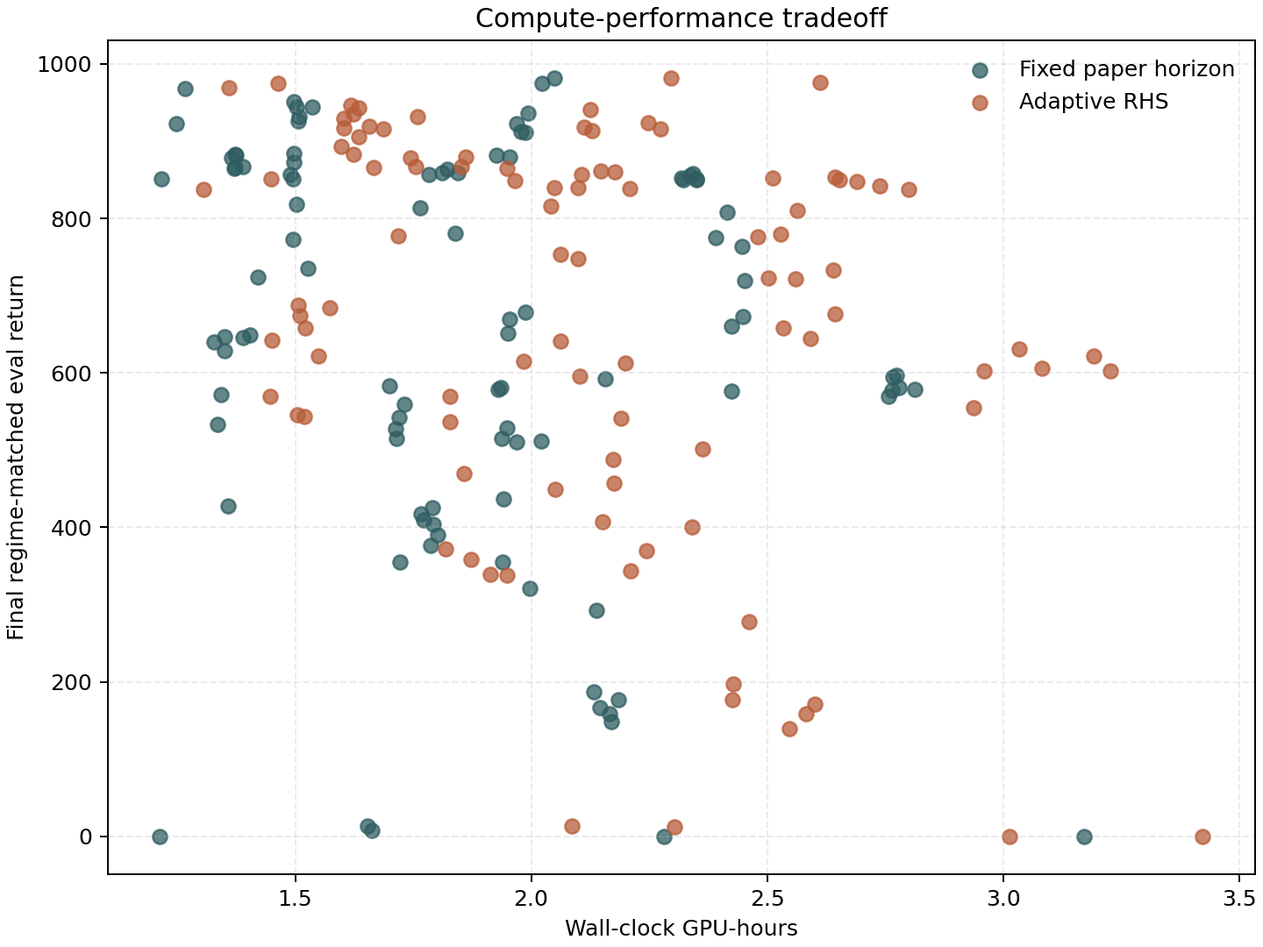
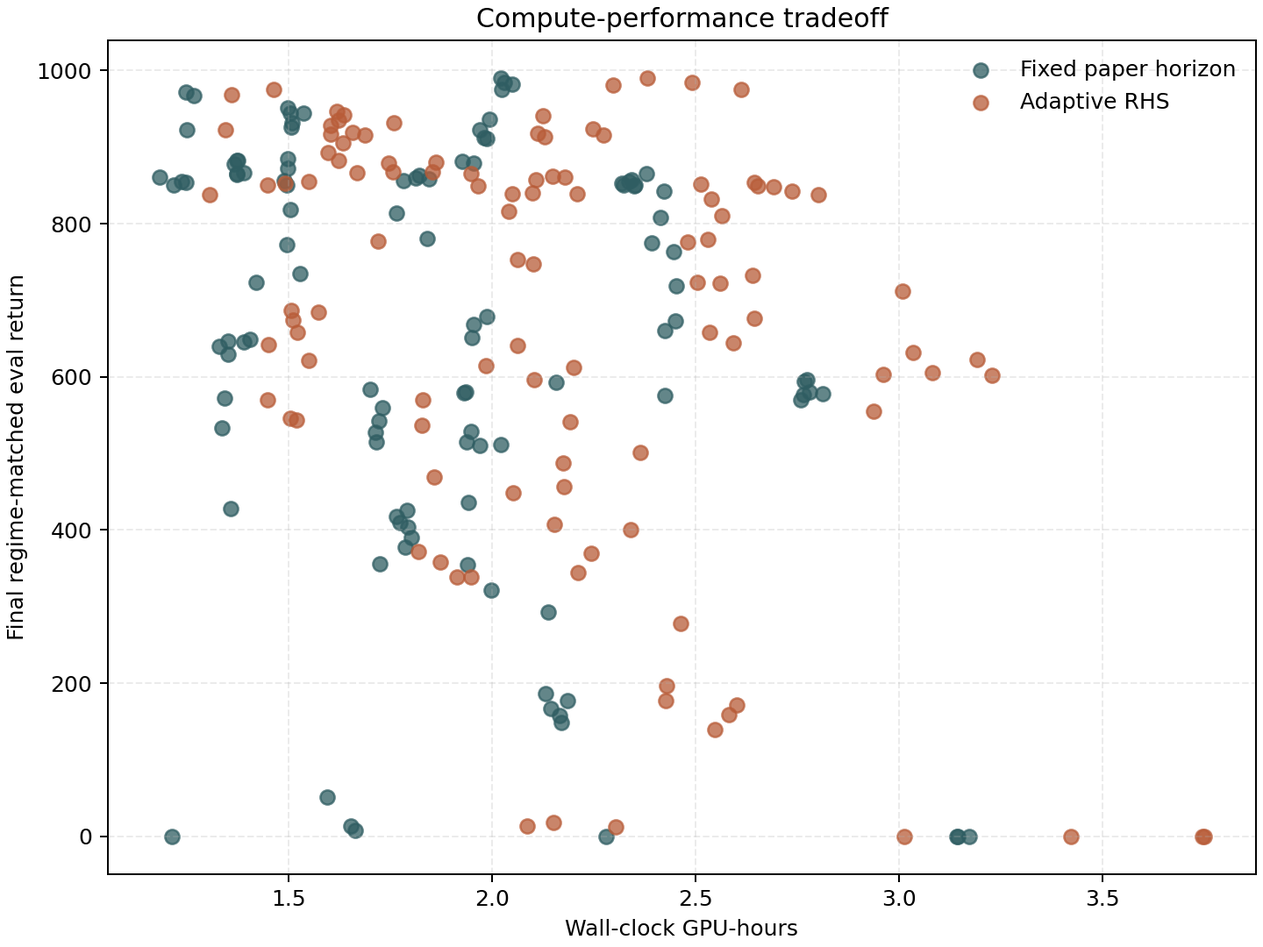
Update CoRL compact v3 result artifacts

diff --git a/runs/results/corl_compact_v3/tables/rhs_percent_delta_by_seed.tex b/runs/results/corl_compact_v3/tables/rhs_percent_delta_by_seed.tex
@@ -38,10 +38,14 @@ cheetah-run & clean & 23 & 856.693 & 915.926 & 6.91413 & True & /home/goncalo/gi
 cheetah-run & clean & 31 & 932.158 & 934.833 & 0.287 & True & /home/goncalo/git/horizonsearch/tdmpc2-jax-codex/outputs/corl\_pub\_500k\_v3/cheetah-run/clean/paper\_horizon/s31 & /home/goncalo/git/horizonsearch/tdmpc2-jax-codex/outputs/corl\_pub\_500k\_v3/cheetah-run/clean/adaptive\_rhs/s31 \\
 cheetah-run & clean & 42 & 944.059 & 932.274 & -1.24828 & False & /home/goncalo/git/horizonsearch/tdmpc2-jax-codex/outputs/corl\_pub\_500k\_v3/cheetah-run/clean/paper\_horizon/s42 & /home/goncalo/git/horizonsearch/tdmpc2-jax-codex/outputs/corl\_pub\_500k\_v3/cheetah-run/clean/adaptive\_rhs/s42 \\
 cheetah-run & clean & 7 & 943.961 & 942.65 & -0.138848 & False & /home/goncalo/git/horizonsearch/tdmpc2-jax-codex/outputs/corl\_pub\_500k\_v2/cheetah-run/clean/paper\_horizon/s7 & /home/goncalo/git/horizonsearch/tdmpc2-jax-codex/outputs/corl\_pub\_500k\_v2/cheetah-run/clean/adaptive\_rhs/s7 \\
+cup-catch & chaos & 15 & 842.1 & 831.9 & -1.21125 & False & /home/goncalo/git/horizonsearch/tdmpc2-jax-codex/outputs/corl\_pub\_500k\_v3/cup-catch/chaos/paper\_horizon/s15 & /home/goncalo/git/horizonsearch/tdmpc2-jax-codex/outputs/corl\_pub\_500k\_v3/cup-catch/chaos/adaptive\_rhs/s15 \\
 cup-catch & chaos & 23 & 763.3 & 723.25 & -5.24695 & False & /home/goncalo/git/horizonsearch/tdmpc2-jax-codex/outputs/corl\_pub\_500k\_v3/cup-catch/chaos/paper\_horizon/s23 & /home/goncalo/git/horizonsearch/tdmpc2-jax-codex/outputs/corl\_pub\_500k\_v3/cup-catch/chaos/adaptive\_rhs/s23 \\
 cup-catch & chaos & 31 & 774.85 & 779.1 & 0.548493 & True & /home/goncalo/git/horizonsearch/tdmpc2-jax-codex/outputs/corl\_pub\_500k\_v3/cup-catch/chaos/paper\_horizon/s31 & /home/goncalo/git/horizonsearch/tdmpc2-jax-codex/outputs/corl\_pub\_500k\_v3/cup-catch/chaos/adaptive\_rhs/s31 \\
+cup-catch & chaos & 42 & 865 & 711.6 & -17.7341 & False & /home/goncalo/git/horizonsearch/tdmpc2-jax-codex/outputs/corl\_pub\_500k\_v3/cup-catch/chaos/paper\_horizon/s42 & /home/goncalo/git/horizonsearch/tdmpc2-jax-codex/outputs/corl\_pub\_500k\_v3/cup-catch/chaos/adaptive\_rhs/s42 \\
+cup-catch & clean & 15 & 984.75 & 984.55 & -0.020311 & False & /home/goncalo/git/horizonsearch/tdmpc2-jax-codex/outputs/corl\_pub\_500k\_v3/cup-catch/clean/paper\_horizon/s15 & /home/goncalo/git/horizonsearch/tdmpc2-jax-codex/outputs/corl\_pub\_500k\_v3/cup-catch/clean/adaptive\_rhs/s15 \\
 cup-catch & clean & 23 & 981.95 & 981.2 & -0.0763786 & False & /home/goncalo/git/horizonsearch/tdmpc2-jax-codex/outputs/corl\_pub\_500k\_v3/cup-catch/clean/paper\_horizon/s23 & /home/goncalo/git/horizonsearch/tdmpc2-jax-codex/outputs/corl\_pub\_500k\_v3/cup-catch/clean/adaptive\_rhs/s23 \\
 cup-catch & clean & 31 & 975.35 & 975.75 & 0.0410134 & True & /home/goncalo/git/horizonsearch/tdmpc2-jax-codex/outputs/corl\_pub\_500k\_v3/cup-catch/clean/paper\_horizon/s31 & /home/goncalo/git/horizonsearch/tdmpc2-jax-codex/outputs/corl\_pub\_500k\_v3/cup-catch/clean/adaptive\_rhs/s31 \\
+cup-catch & clean & 42 & 990.5 & 989.85 & -0.0656259 & False & /home/goncalo/git/horizonsearch/tdmpc2-jax-codex/outputs/corl\_pub\_500k\_v3/cup-catch/clean/paper\_horizon/s42 & /home/goncalo/git/horizonsearch/tdmpc2-jax-codex/outputs/corl\_pub\_500k\_v3/cup-catch/clean/adaptive\_rhs/s42 \\
 finger-turn\_hard & chaos & 1 & 651 & 448.7 & -31.0753 & False & /home/goncalo/git/horizonsearch/tdmpc2-jax-codex/outputs/corl\_pub\_500k\_v2/finger-turn\_hard/chaos/paper\_horizon/s1 & /home/goncalo/git/horizonsearch/tdmpc2-jax-codex/outputs/corl\_pub\_500k\_v2/finger-turn\_hard/chaos/adaptive\_rhs/s1 \\
 finger-turn\_hard & chaos & 15 & 510.1 & 753.45 & 47.7063 & True & /home/goncalo/git/horizonsearch/tdmpc2-jax-codex/outputs/corl\_pub\_500k\_v2/finger-turn\_hard/chaos/paper\_horizon/s15 & /home/goncalo/git/horizonsearch/tdmpc2-jax-codex/outputs/corl\_pub\_500k\_v2/finger-turn\_hard/chaos/adaptive\_rhs/s15 \\
 finger-turn\_hard & chaos & 23 & 669 & 839.45 & 25.4783 & True & /home/goncalo/git/horizonsearch/tdmpc2-jax-codex/outputs/corl\_pub\_500k\_v3/finger-turn\_hard/chaos/paper\_horizon/s23 & /home/goncalo/git/horizonsearch/tdmpc2-jax-codex/outputs/corl\_pub\_500k\_v3/finger-turn\_hard/chaos/adaptive\_rhs/s23 \\
@@ -71,7 +75,10 @@ hopper-hop & clean & 42 & 355.446 & 536.892 & 51.0476 & True & /home/goncalo/git
 hopper-hop & clean & 7 & 514.885 & 469.663 & -8.78303 & False & /home/goncalo/git/horizonsearch/tdmpc2-jax-codex/outputs/corl\_pub\_500k\_v2/hopper-hop/clean/paper\_horizon/s7 & /home/goncalo/git/horizonsearch/tdmpc2-jax-codex/outputs/corl\_pub\_500k\_v2/hopper-hop/clean/adaptive\_rhs/s7 \\
 pendulum-swingup & chaos & 23 & 12.95 & 12.2 & -5.79151 & False & /home/goncalo/git/horizonsearch/tdmpc2-jax-codex/outputs/corl\_pub\_500k\_v3/pendulum-swingup/chaos/paper\_horizon/s23 & /home/goncalo/git/horizonsearch/tdmpc2-jax-codex/outputs/corl\_pub\_500k\_v3/pendulum-swingup/chaos/adaptive\_rhs/s23 \\
 pendulum-swingup & chaos & 31 & 8.1 & 13.7 & 69.1358 & True & /home/goncalo/git/horizonsearch/tdmpc2-jax-codex/outputs/corl\_pub\_500k\_v3/pendulum-swingup/chaos/paper\_horizon/s31 & /home/goncalo/git/horizonsearch/tdmpc2-jax-codex/outputs/corl\_pub\_500k\_v3/pendulum-swingup/chaos/adaptive\_rhs/s31 \\
+pendulum-swingup & chaos & 42 & 50.7 & 18.35 & -63.8067 & False & /home/goncalo/git/horizonsearch/tdmpc2-jax-codex/outputs/corl\_pub\_500k\_v3/pendulum-swingup/chaos/paper\_horizon/s42 & /home/goncalo/git/horizonsearch/tdmpc2-jax-codex/outputs/corl\_pub\_500k\_v3/pendulum-swingup/chaos/adaptive\_rhs/s42 \\
+pendulum-swingup & clean & 15 & 855.15 & 854.9 & -0.0292346 & False & /home/goncalo/git/horizonsearch/tdmpc2-jax-codex/outputs/corl\_pub\_500k\_v3/pendulum-swingup/clean/paper\_horizon/s15 & /home/goncalo/git/horizonsearch/tdmpc2-jax-codex/outputs/corl\_pub\_500k\_v3/pendulum-swingup/clean/adaptive\_rhs/s15 \\
 pendulum-swingup & clean & 23 & 850.95 & 850.65 & -0.0352533 & False & /home/goncalo/git/horizonsearch/tdmpc2-jax-codex/outputs/corl\_pub\_500k\_v3/pendulum-swingup/clean/paper\_horizon/s23 & /home/goncalo/git/horizonsearch/tdmpc2-jax-codex/outputs/corl\_pub\_500k\_v3/pendulum-swingup/clean/adaptive\_rhs/s23 \\
+pendulum-swingup & clean & 42 & 860.65 & 852.3 & -0.970201 & False & /home/goncalo/git/horizonsearch/tdmpc2-jax-codex/outputs/corl\_pub\_500k\_v3/pendulum-swingup/clean/paper\_horizon/s42 & /home/goncalo/git/horizonsearch/tdmpc2-jax-codex/outputs/corl\_pub\_500k\_v3/pendulum-swingup/clean/adaptive\_rhs/s42 \\
 quadruped-run & chaos & 1 & 660.833 & 732.885 & 10.9033 & True & /home/goncalo/git/horizonsearch/tdmpc2-jax-codex/outputs/corl\_pub\_500k\_v2/quadruped-run/chaos/paper\_horizon/s1 & /home/goncalo/git/horizonsearch/tdmpc2-jax-codex/outputs/corl\_pub\_500k\_v2/quadruped-run/chaos/adaptive\_rhs/s1 \\
 quadruped-run & chaos & 15 & 576.135 & 810.007 & 40.5932 & True & /home/goncalo/git/horizonsearch/tdmpc2-jax-codex/outputs/corl\_pub\_500k\_v2/quadruped-run/chaos/paper\_horizon/s15 & /home/goncalo/git/horizonsearch/tdmpc2-jax-codex/outputs/corl\_pub\_500k\_v2/quadruped-run/chaos/adaptive\_rhs/s15 \\
 quadruped-run & chaos & 23 & 592.633 & 658.182 & 11.0606 & True & /home/goncalo/git/horizonsearch/tdmpc2-jax-codex/outputs/corl\_pub\_500k\_v3/quadruped-run/chaos/paper\_horizon/s23 & /home/goncalo/git/horizonsearch/tdmpc2-jax-codex/outputs/corl\_pub\_500k\_v3/quadruped-run/chaos/adaptive\_rhs/s23 \\
@@ -85,8 +92,10 @@ quadruped-run & clean & 31 & 922.892 & 918.438 & -0.482618 & False & /home/gonca
 quadruped-run & clean & 42 & 936.566 & 916.308 & -2.16306 & False & /home/goncalo/git/horizonsearch/tdmpc2-jax-codex/outputs/corl\_pub\_500k\_v3/quadruped-run/clean/paper\_horizon/s42 & /home/goncalo/git/horizonsearch/tdmpc2-jax-codex/outputs/corl\_pub\_500k\_v3/quadruped-run/clean/adaptive\_rhs/s42 \\
 quadruped-run & clean & 7 & 879.293 & 839.896 & -4.48062 & False & /home/goncalo/git/horizonsearch/tdmpc2-jax-codex/outputs/corl\_pub\_500k\_v2/quadruped-run/clean/paper\_horizon/s7 & /home/goncalo/git/horizonsearch/tdmpc2-jax-codex/outputs/corl\_pub\_500k\_v2/quadruped-run/clean/adaptive\_rhs/s7 \\
 reacher-hard & chaos & 23 & 0.15 & 0.1 & -33.3333 & False & /home/goncalo/git/horizonsearch/tdmpc2-jax-codex/outputs/corl\_pub\_500k\_v3/reacher-hard/chaos/paper\_horizon/s23 & /home/goncalo/git/horizonsearch/tdmpc2-jax-codex/outputs/corl\_pub\_500k\_v3/reacher-hard/chaos/adaptive\_rhs/s23 \\
+reacher-hard & chaos & 31 & 0.1 & 0.1 & 0 & False & /home/goncalo/git/horizonsearch/tdmpc2-jax-codex/outputs/corl\_pub\_500k\_v3/reacher-hard/chaos/paper\_horizon/s31 & /home/goncalo/git/horizonsearch/tdmpc2-jax-codex/outputs/corl\_pub\_500k\_v3/reacher-hard/chaos/adaptive\_rhs/s31 \\
 reacher-hard & clean & 23 & 967.7 & 968.75 & 0.108503 & True & /home/goncalo/git/horizonsearch/tdmpc2-jax-codex/outputs/corl\_pub\_500k\_v3/reacher-hard/clean/paper\_horizon/s23 & /home/goncalo/git/horizonsearch/tdmpc2-jax-codex/outputs/corl\_pub\_500k\_v3/reacher-hard/clean/adaptive\_rhs/s23 \\
 reacher-hard & clean & 31 & 922.45 & 974.8 & 5.6751 & True & /home/goncalo/git/horizonsearch/tdmpc2-jax-codex/outputs/corl\_pub\_500k\_v3/reacher-hard/clean/paper\_horizon/s31 & /home/goncalo/git/horizonsearch/tdmpc2-jax-codex/outputs/corl\_pub\_500k\_v3/reacher-hard/clean/adaptive\_rhs/s31 \\
+reacher-hard & clean & 42 & 972.35 & 922.7 & -5.10618 & False & /home/goncalo/git/horizonsearch/tdmpc2-jax-codex/outputs/corl\_pub\_500k\_v3/reacher-hard/clean/paper\_horizon/s42 & /home/goncalo/git/horizonsearch/tdmpc2-jax-codex/outputs/corl\_pub\_500k\_v3/reacher-hard/clean/adaptive\_rhs/s42 \\
 walker-run & chaos & 1 & 596.752 & 605.954 & 1.54205 & True & /home/goncalo/git/horizonsearch/tdmpc2-jax-codex/outputs/corl\_pub\_500k\_v3/walker-run/chaos/paper\_horizon/s1 & /home/goncalo/git/horizonsearch/tdmpc2-jax-codex/outputs/corl\_pub\_500k\_v3/walker-run/chaos/adaptive\_rhs/s1 \\
 walker-run & chaos & 15 & 594.096 & 602.725 & 1.45247 & True & /home/goncalo/git/horizonsearch/tdmpc2-jax-codex/outputs/corl\_pub\_500k\_v3/walker-run/chaos/paper\_horizon/s15 & /home/goncalo/git/horizonsearch/tdmpc2-jax-codex/outputs/corl\_pub\_500k\_v3/walker-run/chaos/adaptive\_rhs/s15 \\
 walker-run & chaos & 23 & 577.065 & 622.352 & 7.84768 & True & /home/goncalo/git/horizonsearch/tdmpc2-jax-codex/outputs/corl\_pub\_500k\_v3/walker-run/chaos/paper\_horizon/s23 & /home/goncalo/git/horizonsearch/tdmpc2-jax-codex/outputs/corl\_pub\_500k\_v3/walker-run/chaos/adaptive\_rhs/s23 \\

diff --git a/runs/results/corl_compact_v3/tables/main_final_scores.tex b/runs/results/corl_compact_v3/tables/main_final_scores.tex
@@ -205,5 +205,26 @@ pendulum-swingup & chaos & paper\_horizon & 31 & 3 & 500000 & 8.1 & 61.35 & 2311
 pendulum-swingup & chaos & adaptive\_rhs & 31 & 3 & 500000 & 13.7 & 124.2 & 2312 & 2.0869 & True & /home/goncalo/git/horizonsearch/tdmpc2-jax-codex/outputs/corl\_pub\_500k\_v3/pendulum-swingup/chaos/adaptive\_rhs/s31 \\
 reacher-hard & clean & paper\_horizon & 31 & 3 & 500000 & 922.45 & 978.9 & 2313 & 1.2489 & True & /home/goncalo/git/horizonsearch/tdmpc2-jax-codex/outputs/corl\_pub\_500k\_v3/reacher-hard/clean/paper\_horizon/s31 \\
 reacher-hard & clean & adaptive\_rhs & 31 & 3 & 500000 & 974.8 & 979.45 & 2314 & 1.4636 & True & /home/goncalo/git/horizonsearch/tdmpc2-jax-codex/outputs/corl\_pub\_500k\_v3/reacher-hard/clean/adaptive\_rhs/s31 \\
+cup-catch & clean & paper\_horizon & 42 & 3 & 500000 & 990.5 & 990.5 & 2318 & 2.0217 & True & /home/goncalo/git/horizonsearch/tdmpc2-jax-codex/outputs/corl\_pub\_500k\_v3/cup-catch/clean/paper\_horizon/s42 \\
+reacher-hard & chaos & paper\_horizon & 31 & 3 & 500000 & 0.1 & 0.45 & 2316 & 3.1433 & True & /home/goncalo/git/horizonsearch/tdmpc2-jax-codex/outputs/corl\_pub\_500k\_v3/reacher-hard/chaos/paper\_horizon/s31 \\
+reacher-hard & chaos & adaptive\_rhs & 31 & 3 & 500000 & 0.1 & 0.45 & 2317 & 3.7464 & True & /home/goncalo/git/horizonsearch/tdmpc2-jax-codex/outputs/corl\_pub\_500k\_v3/reacher-hard/chaos/adaptive\_rhs/s31 \\
+cup-catch & clean & adaptive\_rhs & 42 & 3 & 500000 & 989.85 & 989.85 & 2320 & 2.3803 & True & /home/goncalo/git/horizonsearch/tdmpc2-jax-codex/outputs/corl\_pub\_500k\_v3/cup-catch/clean/adaptive\_rhs/s42 \\
+cup-catch & chaos & paper\_horizon & 42 & 3 & 500000 & 865 & 915.3 & 2321 & 2.3800 & True & /home/goncalo/git/horizonsearch/tdmpc2-jax-codex/outputs/corl\_pub\_500k\_v3/cup-catch/chaos/paper\_horizon/s42 \\
+pendulum-swingup & clean & paper\_horizon & 42 & 3 & 500000 & 860.65 & 898.35 & 2324 & 1.1828 & True & /home/goncalo/git/horizonsearch/tdmpc2-jax-codex/outputs/corl\_pub\_500k\_v3/pendulum-swingup/clean/paper\_horizon/s42 \\
+cup-catch & chaos & adaptive\_rhs & 42 & 3 & 500000 & 711.6 & 880.55 & 2322 & 3.0092 & True & /home/goncalo/git/horizonsearch/tdmpc2-jax-codex/outputs/corl\_pub\_500k\_v3/cup-catch/chaos/adaptive\_rhs/s42 \\
+pendulum-swingup & clean & adaptive\_rhs & 42 & 3 & 500000 & 852.3 & 898.6 & 2325 & 1.4914 & True & /home/goncalo/git/horizonsearch/tdmpc2-jax-codex/outputs/corl\_pub\_500k\_v3/pendulum-swingup/clean/adaptive\_rhs/s42 \\
+pendulum-swingup & chaos & paper\_horizon & 42 & 3 & 500000 & 50.7 & 123.25 & 2326 & 1.5942 & True & /home/goncalo/git/horizonsearch/tdmpc2-jax-codex/outputs/corl\_pub\_500k\_v3/pendulum-swingup/chaos/paper\_horizon/s42 \\
+pendulum-swingup & chaos & adaptive\_rhs & 42 & 3 & 500000 & 18.35 & 87.3 & 2327 & 2.1514 & True & /home/goncalo/git/horizonsearch/tdmpc2-jax-codex/outputs/corl\_pub\_500k\_v3/pendulum-swingup/chaos/adaptive\_rhs/s42 \\
+reacher-hard & clean & paper\_horizon & 42 & 3 & 500000 & 972.35 & 972.35 & 2328 & 1.2481 & True & /home/goncalo/git/horizonsearch/tdmpc2-jax-codex/outputs/corl\_pub\_500k\_v3/reacher-hard/clean/paper\_horizon/s42 \\
+reacher-hard & clean & adaptive\_rhs & 42 & 3 & 500000 & 922.7 & 969.2 & 2330 & 1.3439 & True & /home/goncalo/git/horizonsearch/tdmpc2-jax-codex/outputs/corl\_pub\_500k\_v3/reacher-hard/clean/adaptive\_rhs/s42 \\
+reacher-hard & chaos & paper\_horizon & 42 & 3 & 500000 & 0 & 22.15 & 2331 & 3.1417 & True & /home/goncalo/git/horizonsearch/tdmpc2-jax-codex/outputs/corl\_pub\_500k\_v3/reacher-hard/chaos/paper\_horizon/s42 \\
+reacher-hard & chaos & adaptive\_rhs & 42 & 3 & 500000 & 0 & 22.15 & 2332 & 3.7500 & True & /home/goncalo/git/horizonsearch/tdmpc2-jax-codex/outputs/corl\_pub\_500k\_v3/reacher-hard/chaos/adaptive\_rhs/s42 \\
+cup-catch & clean & paper\_horizon & 15 & 3 & 500000 & 984.75 & 988.45 & 2335 & 2.0297 & True & /home/goncalo/git/horizonsearch/tdmpc2-jax-codex/outputs/corl\_pub\_500k\_v3/cup-catch/clean/paper\_horizon/s15 \\
+cup-catch & clean & adaptive\_rhs & 15 & 3 & 500000 & 984.55 & 987.95 & 2336 & 2.4914 & True & /home/goncalo/git/horizonsearch/tdmpc2-jax-codex/outputs/corl\_pub\_500k\_v3/cup-catch/clean/adaptive\_rhs/s15 \\
+cup-catch & chaos & paper\_horizon & 15 & 3 & 500000 & 842.1 & 884 & 2341 & 2.4228 & True & /home/goncalo/git/horizonsearch/tdmpc2-jax-codex/outputs/corl\_pub\_500k\_v3/cup-catch/chaos/paper\_horizon/s15 \\
+cup-catch & chaos & adaptive\_rhs & 15 & 3 & 500000 & 831.9 & 886.65 & 2342 & 2.5389 & True & /home/goncalo/git/horizonsearch/tdmpc2-jax-codex/outputs/corl\_pub\_500k\_v3/cup-catch/chaos/adaptive\_rhs/s15 \\
+pendulum-swingup & clean & paper\_horizon & 15 & 3 & 500000 & 855.15 & 864.85 & 2343 & 1.2369 & True & /home/goncalo/git/horizonsearch/tdmpc2-jax-codex/outputs/corl\_pub\_500k\_v3/pendulum-swingup/clean/paper\_horizon/s15 \\
+pendulum-swingup & clean & adaptive\_rhs & 15 & 3 & 500000 & 854.9 & 864.45 & 2344 & 1.5481 & True & /home/goncalo/git/horizonsearch/tdmpc2-jax-codex/outputs/corl\_pub\_500k\_v3/pendulum-swingup/clean/adaptive\_rhs/s15 \\
+reacher-hard & clean & paper\_horizon & 15 & 3 & 500000 & 854.3 & 974.65 & 2350 & 1.2472 & True & /home/goncalo/git/horizonsearch/tdmpc2-jax-codex/outputs/corl\_pub\_500k\_v3/reacher-hard/clean/paper\_horizon/s15 \\
 \bottomrule
 \end{tabular}

diff --git a/runs/results/corl_compact_v3/tables/rhs_percent_delta_summary.tex b/runs/results/corl_compact_v3/tables/rhs_percent_delta_summary.tex
@@ -2,19 +2,19 @@
 \toprule
 scope & n & mean\_pct\_delta\_vs\_baseline & var\_pct\_delta\_vs\_baseline & std\_pct\_delta\_vs\_baseline & rhs\_wins & rhs\_win\_rate \\
 \midrule
-all\_valid\_pairs & 97 & 4.09608 & 372.998 & 19.3131 & 58 & 0.597938 \\
-regime=chaos & 47 & 6.67585 & 575.874 & 23.9974 & 30 & 0.638298 \\
-regime=clean & 50 & 1.6711 & 177.77 & 13.333 & 28 & 0.56 \\
+all\_valid\_pairs & 106 & 2.90921 & 390.023 & 19.749 & 58 & 0.54717 \\
+regime=chaos & 51 & 4.52966 & 638.514 & 25.2688 & 30 & 0.588235 \\
+regime=clean & 55 & 1.40661 & 162.381 & 12.7429 & 28 & 0.509091 \\
 env=acrobot-swingup & 12 & 5.63237 & 324.245 & 18.0068 & 9 & 0.75 \\
 env=cartpole-swingup & 12 & -0.104741 & 1.42622 & 1.19425 & 7 & 0.583333 \\
 env=cheetah-run & 12 & 5.17002 & 279.261 & 16.7111 & 9 & 0.75 \\
-env=cup-catch & 4 & -1.18346 & 7.4122 & 2.72254 & 2 & 0.5 \\
+env=cup-catch & 8 & -2.97064 & 39.0302 & 6.24742 & 2 & 0.25 \\
 env=finger-turn\_hard & 12 & 14.8716 & 555.625 & 23.5717 & 9 & 0.75 \\
 env=fish-swim & 3 & -7.05135 & 75.1301 & 8.66776 & 1 & 0.333333 \\
 env=hopper-hop & 12 & 1.67943 & 1149.05 & 33.8976 & 5 & 0.416667 \\
-env=pendulum-swingup & 3 & 21.103 & 1738.64 & 41.6971 & 1 & 0.333333 \\
+env=pendulum-swingup & 6 & -0.249518 & 1777.03 & 42.1549 & 1 & 0.166667 \\
 env=quadruped-run & 12 & 3.5862 & 182.398 & 13.5055 & 7 & 0.583333 \\
-env=reacher-hard & 3 & -9.18324 & 445.167 & 21.099 & 2 & 0.666667 \\
+env=reacher-hard & 5 & -6.53118 & 239.03 & 15.4606 & 2 & 0.4 \\
 env=walker-run & 12 & 1.45245 & 15.4791 & 3.93435 & 6 & 0.5 \\
 env=acrobot-swingup,regime=chaos & 6 & 0.386395 & 217.789 & 14.7577 & 4 & 0.666667 \\
 env=acrobot-swingup,regime=clean & 6 & 10.8783 & 429.502 & 20.7244 & 5 & 0.833333 \\
@@ -22,19 +22,19 @@ env=cartpole-swingup,regime=chaos & 6 & -0.220516 & 0.656848 & 0.810461 & 3 & 0.
 env=cartpole-swingup,regime=clean & 6 & 0.0110334 & 2.44868 & 1.56482 & 4 & 0.666667 \\
 env=cheetah-run,regime=chaos & 6 & 7.92887 & 583.898 & 24.164 & 5 & 0.833333 \\
 env=cheetah-run,regime=clean & 6 & 2.41116 & 12.2086 & 3.49407 & 4 & 0.666667 \\
-env=cup-catch,regime=chaos & 2 & -2.34923 & 16.7936 & 4.098 & 1 & 0.5 \\
-env=cup-catch,regime=clean & 2 & -0.0176826 & 0.00689045 & 0.0830087 & 1 & 0.5 \\
+env=cup-catch,regime=chaos & 4 & -5.91095 & 68.0132 & 8.24701 & 1 & 0.25 \\
+env=cup-catch,regime=clean & 4 & -0.0303255 & 0.00285218 & 0.0534058 & 1 & 0.25 \\
 env=finger-turn\_hard,regime=chaos & 6 & 23.9337 & 946.095 & 30.7587 & 5 & 0.833333 \\
 env=finger-turn\_hard,regime=clean & 6 & 5.80954 & 79.1889 & 8.89881 & 4 & 0.666667 \\
 env=fish-swim,regime=clean & 3 & -7.05135 & 75.1301 & 8.66776 & 1 & 0.333333 \\
 env=hopper-hop,regime=chaos & 6 & 5.50594 & 1518.36 & 38.9661 & 2 & 0.333333 \\
 env=hopper-hop,regime=clean & 6 & -2.14707 & 974.403 & 31.2154 & 3 & 0.5 \\
-env=pendulum-swingup,regime=chaos & 2 & 31.6721 & 2807.05 & 52.9816 & 1 & 0.5 \\
-env=pendulum-swingup,regime=clean & 1 & -0.0352533 & 0 & 0 & 0 & 0 \\
+env=pendulum-swingup,regime=chaos & 3 & -0.15414 & 4442.26 & 66.6503 & 1 & 0.333333 \\
+env=pendulum-swingup,regime=clean & 3 & -0.344896 & 0.293264 & 0.541538 & 0 & 0 \\
 env=quadruped-run,regime=chaos & 6 & 7.00169 & 363.35 & 19.0618 & 4 & 0.666667 \\
 env=quadruped-run,regime=clean & 6 & 0.17072 & 9.92773 & 3.15083 & 3 & 0.5 \\
-env=reacher-hard,regime=chaos & 1 & -33.3333 & 0 & 0 & 0 & 0 \\
-env=reacher-hard,regime=clean & 2 & 2.8918 & 15.4935 & 3.93618 & 2 & 1 \\
+env=reacher-hard,regime=chaos & 2 & -16.6667 & 555.556 & 23.5702 & 0 & 0 \\
+env=reacher-hard,regime=clean & 3 & 0.225808 & 29.0693 & 5.3916 & 2 & 0.666667 \\
 env=walker-run,regime=chaos & 6 & 3.5393 & 23.0744 & 4.80359 & 5 & 0.833333 \\
 env=walker-run,regime=clean & 6 & -0.634413 & 0.527656 & 0.726399 & 1 & 0.166667 \\
 \bottomrule

diff --git a/runs/results/corl_compact_v3/tables/compute_runtime.tex b/runs/results/corl_compact_v3/tables/compute_runtime.tex
@@ -205,5 +205,26 @@ pendulum-swingup & chaos & paper\_horizon & 31 & 2311 & 1.6633 & COMPLETED & Tru
 pendulum-swingup & chaos & adaptive\_rhs & 31 & 2312 & 2.0869 & COMPLETED & True \\
 reacher-hard & clean & paper\_horizon & 31 & 2313 & 1.2489 & COMPLETED & True \\
 reacher-hard & clean & adaptive\_rhs & 31 & 2314 & 1.4636 & COMPLETED & True \\
+cup-catch & clean & paper\_horizon & 42 & 2318 & 2.0217 & COMPLETED & True \\
+reacher-hard & chaos & paper\_horizon & 31 & 2316 & 3.1433 & COMPLETED & True \\
+reacher-hard & chaos & adaptive\_rhs & 31 & 2317 & 3.7464 & COMPLETED & True \\
+cup-catch & clean & adaptive\_rhs & 42 & 2320 & 2.3803 & COMPLETED & True \\
+cup-catch & chaos & paper\_horizon & 42 & 2321 & 2.3800 & COMPLETED & True \\
+pendulum-swingup & clean & paper\_horizon & 42 & 2324 & 1.1828 & COMPLETED & True \\
+cup-catch & chaos & adaptive\_rhs & 42 & 2322 & 3.0092 & COMPLETED & True \\
+pendulum-swingup & clean & adaptive\_rhs & 42 & 2325 & 1.4914 & COMPLETED & True \\
+pendulum-swingup & chaos & paper\_horizon & 42 & 2326 & 1.5942 & COMPLETED & True \\
+pendulum-swingup & chaos & adaptive\_rhs & 42 & 2327 & 2.1514 & COMPLETED & True \\
+reacher-hard & clean & paper\_horizon & 42 & 2328 & 1.2481 & COMPLETED & True \\
+reacher-hard & clean & adaptive\_rhs & 42 & 2330 & 1.3439 & COMPLETED & True \\
+reacher-hard & chaos & paper\_horizon & 42 & 2331 & 3.1417 & COMPLETED & True \\
+reacher-hard & chaos & adaptive\_rhs & 42 & 2332 & 3.7500 & COMPLETED & True \\
+cup-catch & clean & paper\_horizon & 15 & 2335 & 2.0297 & COMPLETED & True \\
+cup-catch & clean & adaptive\_rhs & 15 & 2336 & 2.4914 & COMPLETED & True \\
+cup-catch & chaos & paper\_horizon & 15 & 2341 & 2.4228 & COMPLETED & True \\
+cup-catch & chaos & adaptive\_rhs & 15 & 2342 & 2.5389 & COMPLETED & True \\
+pendulum-swingup & clean & paper\_horizon & 15 & 2343 & 1.2369 & COMPLETED & True \\
+pendulum-swingup & clean & adaptive\_rhs & 15 & 2344 & 1.5481 & COMPLETED & True \\
+reacher-hard & clean & paper\_horizon & 15 & 2350 & 1.2472 & COMPLETED & True \\
 \bottomrule
 \end{tabular}

diff --git a/runs/results/corl_compact_v3/tables/main_auc_scores.tex b/runs/results/corl_compact_v3/tables/main_auc_scores.tex
@@ -205,5 +205,26 @@ pendulum-swingup & chaos & paper\_horizon & 31 & 24.8675 & 8.1 & 1.6633 \\
 pendulum-swingup & chaos & adaptive\_rhs & 31 & 38.1325 & 13.7 & 2.0869 \\
 reacher-hard & clean & paper\_horizon & 31 & 831.447 & 922.45 & 1.2489 \\
 reacher-hard & clean & adaptive\_rhs & 31 & 851.367 & 974.8 & 1.4636 \\
+cup-catch & clean & paper\_horizon & 42 & 887.53 & 990.5 & 2.0217 \\
+reacher-hard & chaos & paper\_horizon & 31 & 0.17 & 0.1 & 3.1433 \\
+reacher-hard & chaos & adaptive\_rhs & 31 & 0.17 & 0.1 & 3.7464 \\
+cup-catch & clean & adaptive\_rhs & 42 & 885.515 & 989.85 & 2.3803 \\
+cup-catch & chaos & paper\_horizon & 42 & 717.308 & 865 & 2.3800 \\
+pendulum-swingup & clean & paper\_horizon & 42 & 759.298 & 860.65 & 1.1828 \\
+cup-catch & chaos & adaptive\_rhs & 42 & 712.565 & 711.6 & 3.0092 \\
+pendulum-swingup & clean & adaptive\_rhs & 42 & 757.24 & 852.3 & 1.4914 \\
+pendulum-swingup & chaos & paper\_horizon & 42 & 68.7075 & 50.7 & 1.5942 \\
+pendulum-swingup & chaos & adaptive\_rhs & 42 & 24.57 & 18.35 & 2.1514 \\
+reacher-hard & clean & paper\_horizon & 42 & 860.687 & 972.35 & 1.2481 \\
+reacher-hard & clean & adaptive\_rhs & 42 & 861.293 & 922.7 & 1.3439 \\
+reacher-hard & chaos & paper\_horizon & 42 & 2.44 & 0 & 3.1417 \\
+reacher-hard & chaos & adaptive\_rhs & 42 & 2.465 & 0 & 3.7500 \\
+cup-catch & clean & paper\_horizon & 15 & 885.238 & 984.75 & 2.0297 \\
+cup-catch & clean & adaptive\_rhs & 15 & 885.11 & 984.55 & 2.4914 \\
+cup-catch & chaos & paper\_horizon & 15 & 709.83 & 842.1 & 2.4228 \\
+cup-catch & chaos & adaptive\_rhs & 15 & 738.805 & 831.9 & 2.5389 \\
+pendulum-swingup & clean & paper\_horizon & 15 & 739.977 & 855.15 & 1.2369 \\
+pendulum-swingup & clean & adaptive\_rhs & 15 & 734.737 & 854.9 & 1.5481 \\
+reacher-hard & clean & paper\_horizon & 15 & 836.49 & 854.3 & 1.2472 \\
 \bottomrule
 \end{tabular}

diff --git a/runs/results/corl_compact_v3/tables/parity_times.tex b/runs/results/corl_compact_v3/tables/parity_times.tex
@@ -101,5 +101,15 @@ cup-catch & chaos & 31 & 774.85 & 779.1 &  &  &  & 2.5292 & 2.3917 & 500000 \\
 pendulum-swingup & clean & 31 & 0 & 837.5 &  &  &  & 1.3056 & 1.2128 & 500000 \\
 pendulum-swingup & chaos & 31 & 8.1 & 13.7 &  &  &  & 2.0869 & 1.6633 & 500000 \\
 reacher-hard & clean & 31 & 922.45 & 974.8 &  &  &  & 1.4636 & 1.2489 & 500000 \\
+reacher-hard & chaos & 31 & 0.1 & 0.1 &  &  &  & 3.7464 & 3.1433 & 500000 \\
+cup-catch & clean & 42 & 990.5 & 989.85 &  &  &  & 2.3803 & 2.0217 & 500000 \\
+cup-catch & chaos & 42 & 865 & 711.6 &  &  &  & 3.0092 & 2.38 & 500000 \\
+pendulum-swingup & clean & 42 & 860.65 & 852.3 &  &  &  & 1.4914 & 1.1828 & 500000 \\
+pendulum-swingup & chaos & 42 & 50.7 & 18.35 &  &  &  & 2.1514 & 1.5942 & 500000 \\
+reacher-hard & clean & 42 & 972.35 & 922.7 &  &  &  & 1.3439 & 1.2481 & 500000 \\
+reacher-hard & chaos & 42 & 0 & 0 &  &  &  & 3.75 & 3.1417 & 500000 \\
+cup-catch & clean & 15 & 984.75 & 984.55 &  &  &  & 2.4914 & 2.0297 & 500000 \\
+cup-catch & chaos & 15 & 842.1 & 831.9 &  &  &  & 2.5389 & 2.4228 & 500000 \\
+pendulum-swingup & clean & 15 & 855.15 & 854.9 &  &  &  & 1.5481 & 1.2369 & 500000 \\
 \bottomrule
 \end{tabular}

diff --git a/runs/results/corl_compact_v3/report/corl_compact_base_report.tex b/runs/results/corl_compact_v3/report/corl_compact_base_report.tex
@@ -6,9 +6,9 @@
 
 \subsection*{Executive Summary}
 
-\noindent $\bullet$ Completed main profiles: 203/240.\\
-\noindent $\bullet$ Mean final fixed paper-horizon score: 655.079.\\
-\noindent $\bullet$ Mean final adaptive RHS score: 673.36.\\
+\noindent $\bullet$ Completed main profiles: 224/240.\\
+\noindent $\bullet$ Mean final fixed paper-horizon score: 661.853.\\
+\noindent $\bullet$ Mean final adaptive RHS score: 674.351.\\
 \noindent $\bullet$ Main claim: adaptive RHS is evaluated against the standard TD-MPC2 fixed horizon without a horizon sweep.\\
 
 \subsection*{Method}
@@ -27,7 +27,7 @@ Seeds: 1, 7, 15, 23, 31, 42. Training budget: 500000 environment steps.\\
 
 See `figures/fig1\_clean\_learning\_curves.*`, `figures/fig2\_chaos\_learning\_curves.*`, `tables/main\_final\_scores.*`, `tables/main\_auc\_scores.*`, and the NaN-excluded percent-delta summaries in `tables/rhs\_percent\_delta\_summary.*`.\\
 
-Clean completed rows: 103. Chaos completed rows: 100.\\
+Clean completed rows: 114. Chaos completed rows: 110.\\
 
 \subsection*{Robustness}
 

diff --git a/runs/results/corl_compact_v3/report/corl_compact_base_report.md b/runs/results/corl_compact_v3/report/corl_compact_base_report.md
@@ -2,9 +2,9 @@
 
 ## Executive Summary
 
-- Completed main profiles: 203/240.
-- Mean final fixed paper-horizon score: 655.079.
-- Mean final adaptive RHS score: 673.36.
+- Completed main profiles: 224/240.
+- Mean final fixed paper-horizon score: 661.853.
+- Mean final adaptive RHS score: 674.351.
 - Main claim: adaptive RHS is evaluated against the standard TD-MPC2 fixed horizon without a horizon sweep.
 
 ## Method
@@ -23,7 +23,7 @@ Seeds: 1, 7, 15, 23, 31, 42. Training budget: 500000 environment steps.
 
 See `figures/fig1_clean_learning_curves.*`, `figures/fig2_chaos_learning_curves.*`, `tables/main_final_scores.*`, `tables/main_auc_scores.*`, and the NaN-excluded percent-delta summaries in `tables/rhs_percent_delta_summary.*`.
 
-Clean completed rows: 103. Chaos completed rows: 100.
+Clean completed rows: 114. Chaos completed rows: 110.
 
 ## Robustness
 
